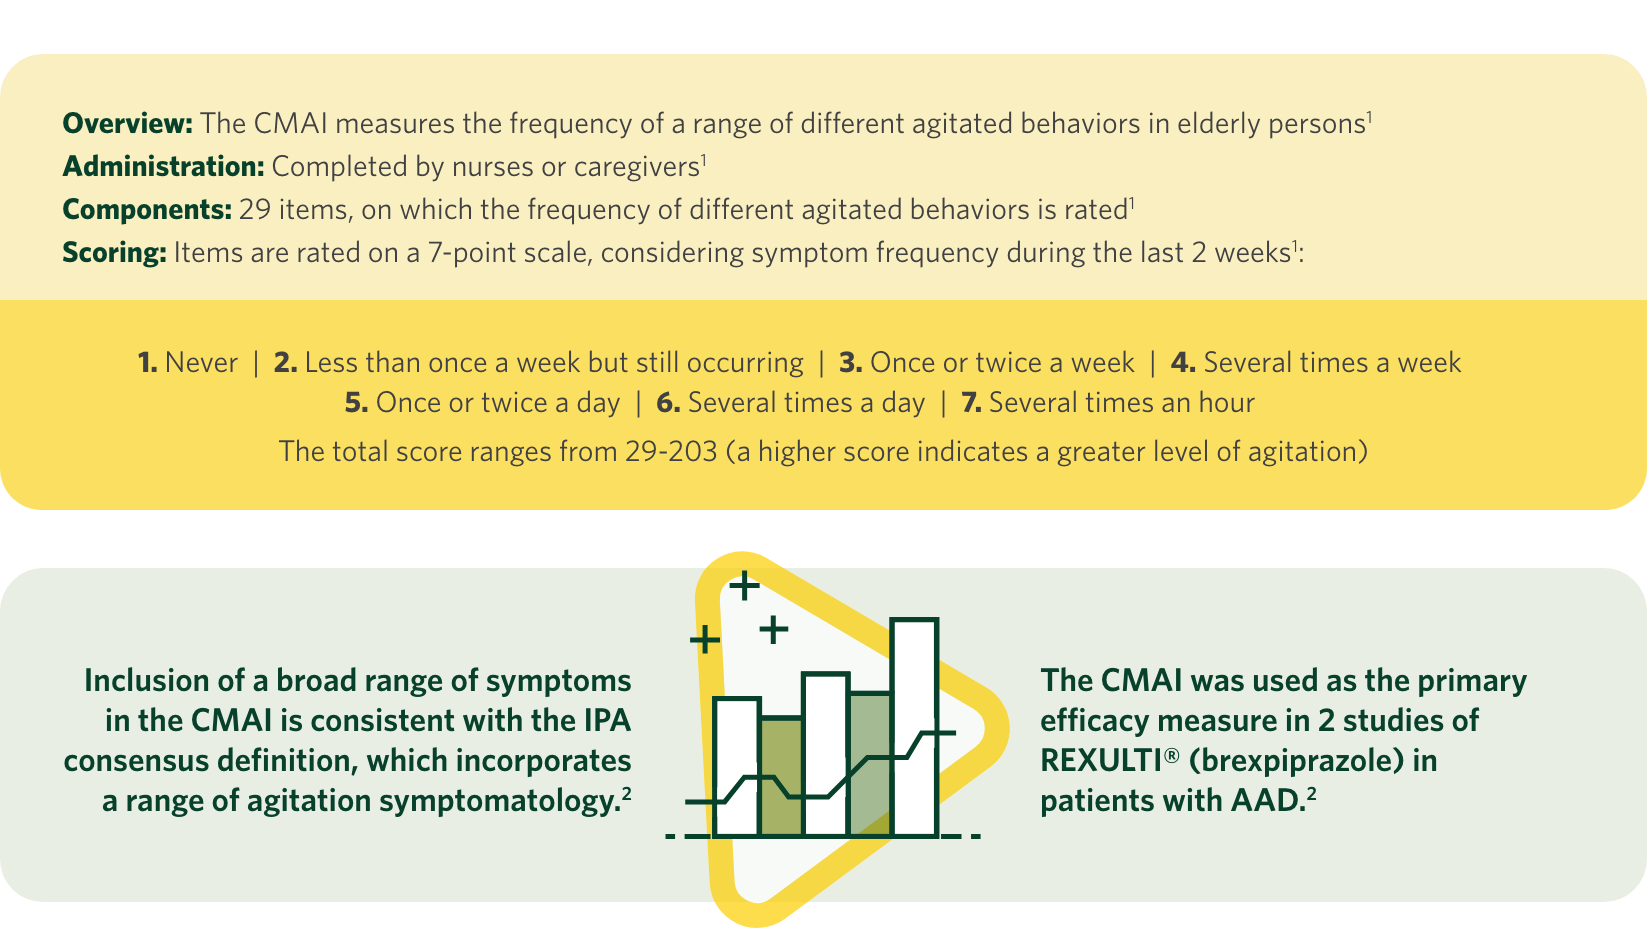
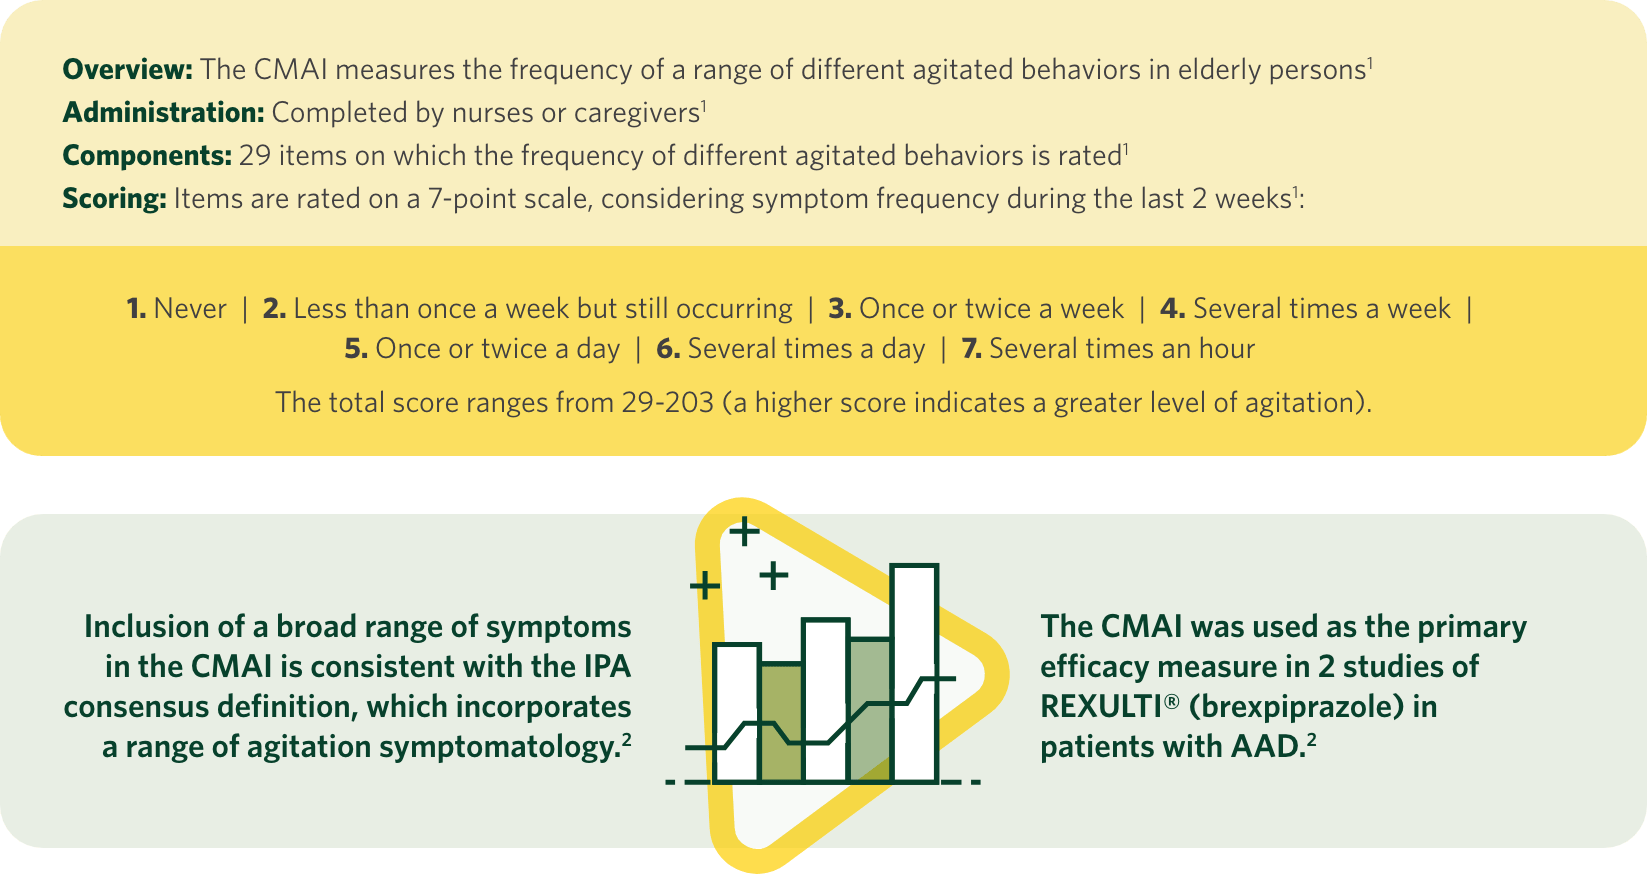
DF-34853 | R1 - R.5.0_Appendix

Changed region(s): [[0.0, 0.1231, 1.0, 0.9544], [0.0, 0.0, 1.0, 0.0924]]

diff --git a/projects/veeva-clm/src/Components/05-pages/R.5.0_Appendix/R.5.0_Appendix.tsx b/projects/veeva-clm/src/Components/05-pages/R.5.0_Appendix/R.5.0_Appendix.tsx
@@ -4,9 +4,7 @@ import Tabs from '@organisms/Tabs/Tabs';
 import Tab from '@organisms/Tabs/Tab';
 import Header from '@atoms/Content/Header/Header';
 import Footer from '@organisms/Footer/Footer';
-import { Link } from '@organisms/Routing';
 
-import RexultiLogo from '@/assets/rexulti-logo.png';
 import imgCMAIOverview from './img/cmai_overview.png';
 import imgCMAIItems from './img/cmai_items.png';
 
@@ -14,73 +12,114 @@ import styles from './R.5.0_Appendix.module.scss';
 
 const PageContent: React.FC = () => {
   return (
-    <>
-      <div className={styles.page}>
-        <Header type='h1' custom={styles.title}>
-          CMAI Details
-        </Header>
-        <Tabs translateTabsX={37} tabWidth={266}>
-          <Tab title='CMAI Overview'>
-            <img src={imgCMAIOverview} alt='CMAI Overview' />
-          </Tab>
-          <Tab title='CMAI Items'>
-            <img src={imgCMAIItems} alt='CMAI Items' />
-          </Tab>
-        </Tabs>
-      </div>
+    <div className={styles.page}>
+      <Header type='h1' custom={styles.title}>
+        CMAI Details
+      </Header>
+      <Tabs translateTabsX={37} tabWidth={205}>
+        <Tab title='CMAI Overview'>
+          <img src={imgCMAIOverview} alt='CMAI Overview' className='mt-30' />
 
-      <Footer
-        custom={styles.footer}
-        footnotes={{
-          data: [
-            {
-              innerText:
-                'AAD, agitation associated with Alzheimer’s dementia; CMAI, Cohen-Mansfield Agitation Inventory; IPA, International Psychogeriatric Association.',
-            },
-          ],
-        }}
-        references={{
-          custom: 'mt-8',
-          data: [
-            {
-              text: (
-                <span>
-                  Cohen-Mansfield, J. (1991). Instruction Manual for the
-                  Cohen-Mansfield Agitation Inventory (CMAI). Rockville, MD:
-                  Research Institute of the Hebrew Home of Greater Washington.
-                  Available at: https://uiowa2.instructure.com › files ›
-                  download. Accessed March 17, 2023.
-                </span>
-              ),
-            },
-            {
-              text: (
-                <span>
-                  Grossberg GT, et al. <strong>Am J Geriatr Psychiatry.</strong>{' '}
-                  2020;28(4):383–400.
-                </span>
-              ),
-            },
-          ],
-        }}
-        safetyInfo={{
-          custom: `mt-3 ${styles.safety_info}`,
-          data: [
-            {
-              text: 'FOR USE WITH FORMULARY DECISION-MAKERS ONLY. DO NOT DUPLICATE OR DISTRIBUTE.',
-            },
-          ],
-        }}
-        images={[
-          <img
-            src={RexultiLogo}
-            alt='maintena-logo'
-            width='154.2'
-            className={styles.logo}
-          />,
-        ]}
-      />
-    </>
+          <Footer
+            custom={`${styles.footer} mt-97`}
+            footnotes={{
+              data: [
+                {
+                  innerText:
+                    'AAD, agitation associated with Alzheimer’s dementia; CMAI, Cohen-Mansfield Agitation Inventory; IPA, International Psychogeriatric Association.',
+                },
+              ],
+            }}
+            references={{
+              custom: 'mt-8',
+              data: [
+                {
+                  text: (
+                    <span>
+                      Cohen-Mansfield, J. (1991). Instruction Manual for the
+                      Cohen-Mansfield Agitation Inventory (CMAI). Rockville, MD:
+                      Research Institute of the Hebrew Home of Greater
+                      Washington. Available at: https://uiowa2.instructure.com ›
+                      files › download. Accessed March 17, 2023.
+                    </span>
+                  ),
+                },
+                {
+                  text: (
+                    <span>
+                      Grossberg GT, et al. <em>Am J Geriatr Psychiatry.</em>{' '}
+                      2020;28(4):383–400.
+                    </span>
+                  ),
+                },
+              ],
+            }}
+            safetyInfo={{
+              custom: `mt-12 ${styles.safety_info}`,
+              data: [
+                {
+                  text: 'FOR USE WITH FORMULARY DECISION-MAKERS ONLY. DO NOT DUPLICATE OR DISTRIBUTE.',
+                },
+              ],
+            }}
+          />
+        </Tab>
+        <Tab title='CMAI Items'>
+          <img src={imgCMAIItems} alt='CMAI Items' />
+
+          <Footer
+            custom={`${styles.footer} mt-95`}
+            footnotes={{
+              data: [
+                {
+                  innerText: 'CMAI, Cohen-Mansfield Agitation Inventory.',
+                },
+              ],
+            }}
+            references={{
+              custom: 'mt-8',
+              data: [
+                {
+                  text: (
+                    <span>
+                      Cohen-Mansfield, J. (1991). Instruction Manual for the
+                      Cohen-Mansfield Agitation Inventory (CMAI). Rockville, MD:
+                      Research Institute of the Hebrew Home of Greater
+                      <br />
+                      Washington. Available at: https://uiowa2.instructure.com ›
+                      files › download. Accessed March 17, 2023.
+                    </span>
+                  ),
+                },
+                {
+                  text: (
+                    <span>
+                      Sano M, et al. <em>Int Psychogeriatr</em>. 2023;1-13.
+                    </span>
+                  ),
+                },
+                {
+                  text: (
+                    <span>
+                      Grossberg GT, et al. <em>Am J Geriatr Psychiatry</em>.
+                      2020;28(4):383–400.
+                    </span>
+                  ),
+                },
+              ],
+            }}
+            safetyInfo={{
+              custom: `mt-5 ${styles.safety_info}`,
+              data: [
+                {
+                  text: 'FOR USE WITH FORMULARY DECISION-MAKERS ONLY. DO NOT DUPLICATE OR DISTRIBUTE.',
+                },
+              ],
+            }}
+          />
+        </Tab>
+      </Tabs>
+    </div>
   );
 };
 export default PageContent;

diff --git a/projects/veeva-clm/src/Components/05-pages/R.5.0_Appendix/R.5.0_Appendix.module.scss b/projects/veeva-clm/src/Components/05-pages/R.5.0_Appendix/R.5.0_Appendix.module.scss
@@ -9,7 +9,7 @@
 }
 
 .footer {
-  padding-right: 190px;
+  position: relative;
 }
 
 .footerLogo {
